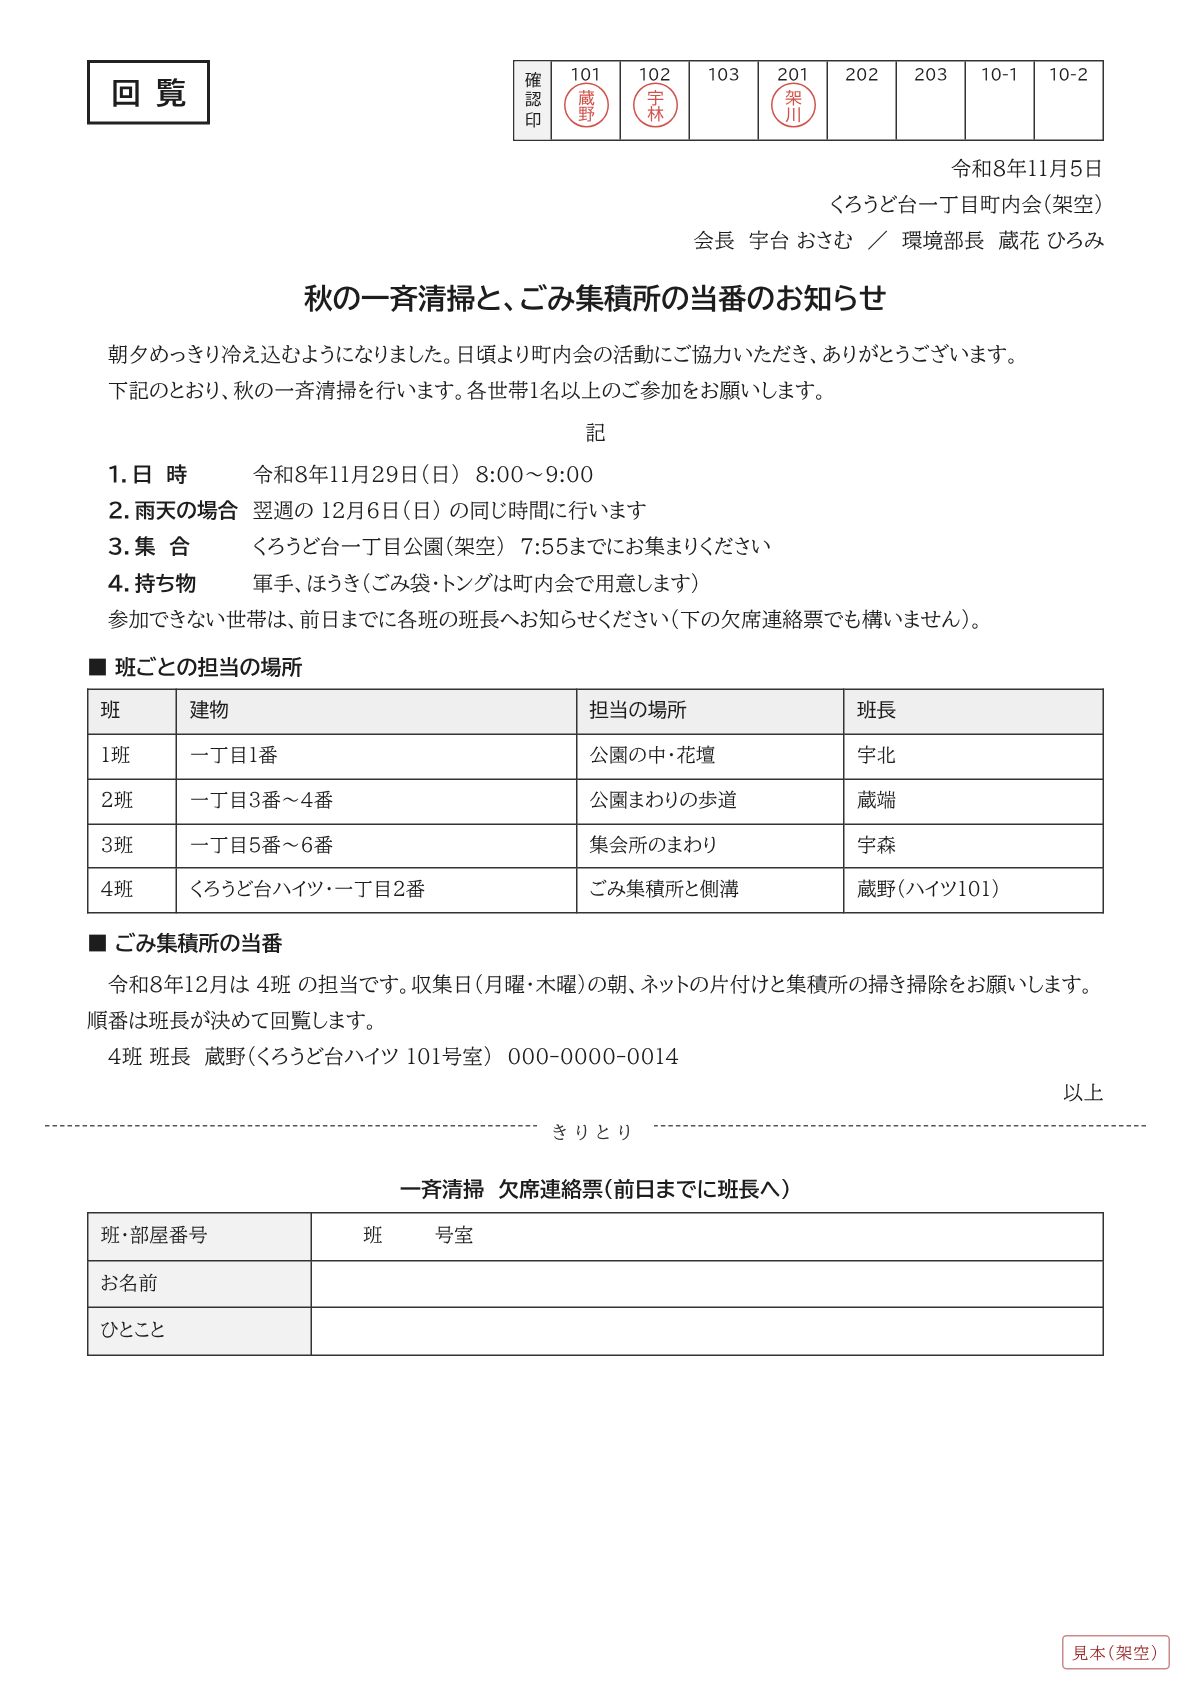
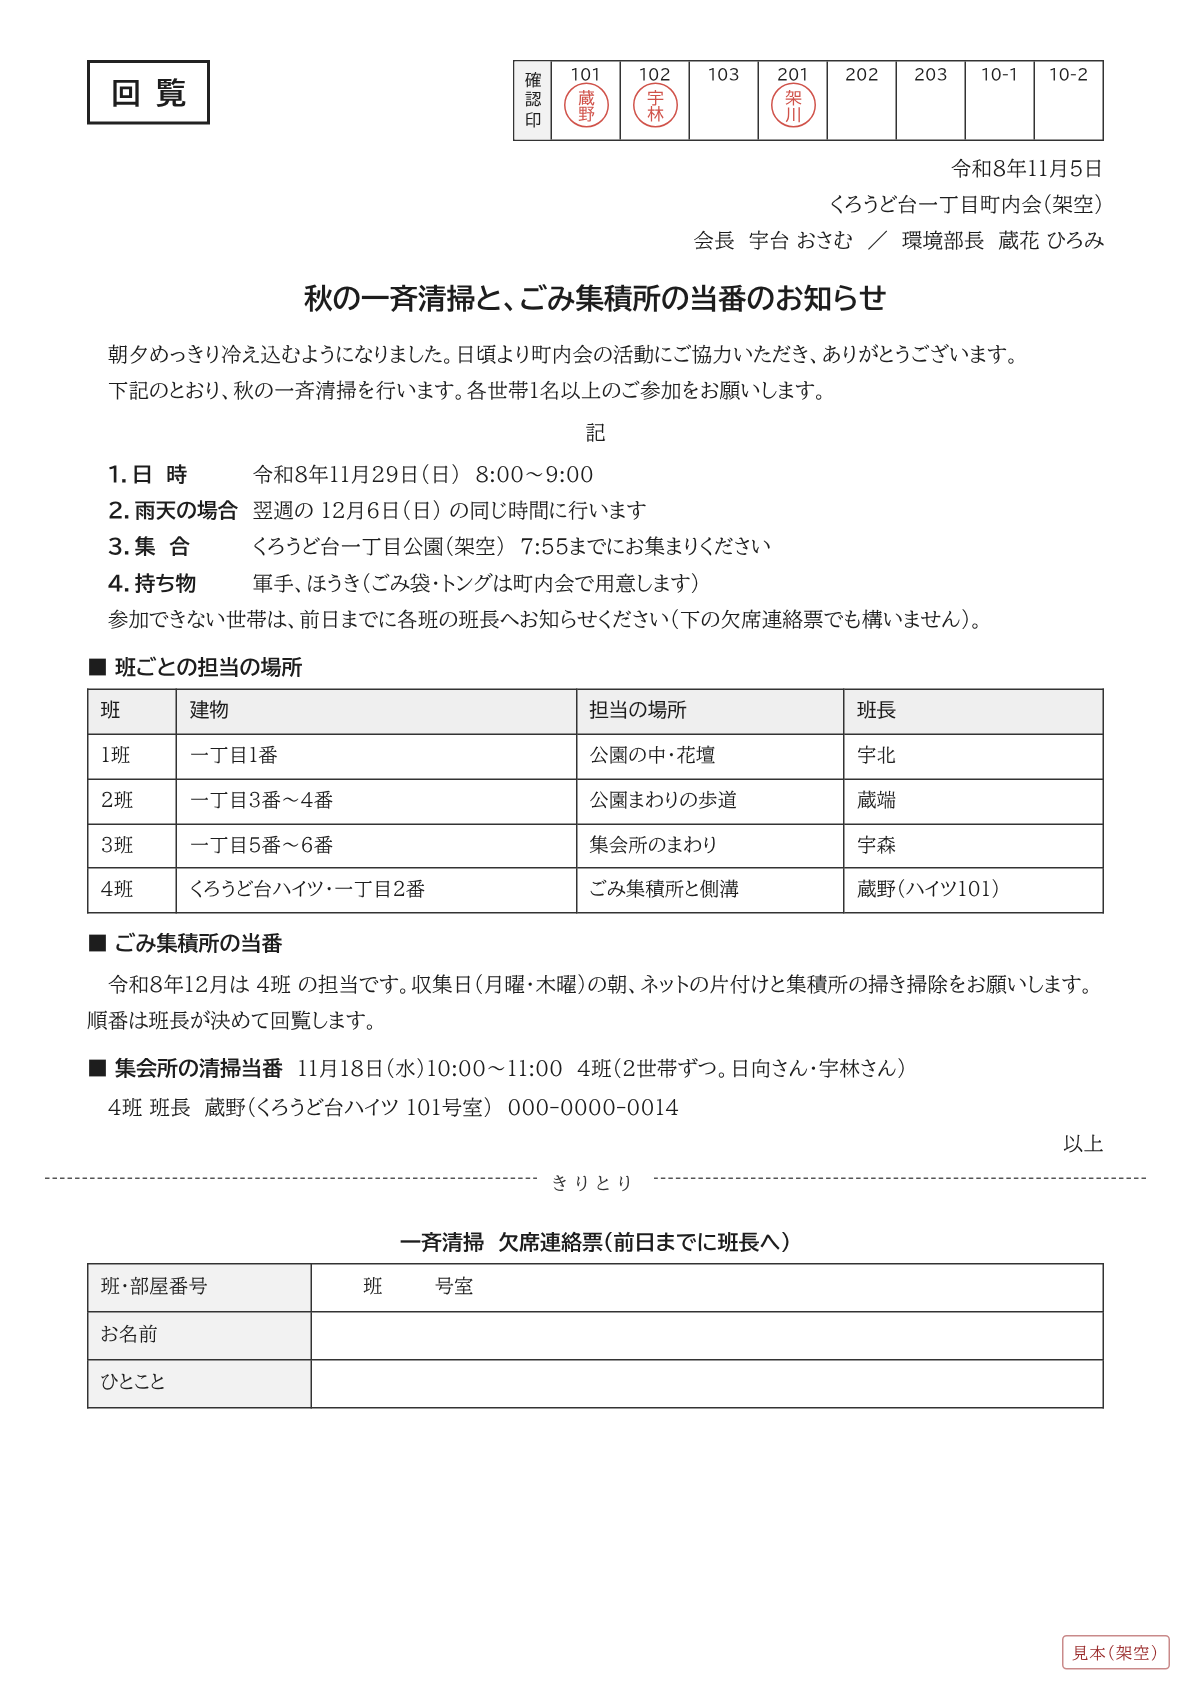
町内会の回覧に平日の当番（集会所の清掃当番 11/18（水）10:00〜11:00）を取り込む・勤務の予定のベトナム語はコードの言い換えに任せる
- 見本の家族で、予定に同じ日の気づきが2件（町内会の当番・授業参観）。トップは授業参観の1枚＋「ほか1件」
- 回覧のベトナム語の仮の訳に当番の項目を足す
- 仮の訳の表が、翔太さんの出勤を早番の日でも「日勤 8:30–17:30」と訳していたのを外し、tellBuild の言い換え（早番・遅番も正しく）に任せる
- smoke: 授業参観のカードを探して確かめ、町内会の当番のカードの文とトップの1枚＋「ほか1件」も確かめる

Claude-Session: https://claude.ai/code/session_01S2LwViGHCPdRZTKJAmPGBM

diff --git a/src/data/demoTranslations.ts b/src/data/demoTranslations.ts
@@ -135,13 +135,14 @@ const PREPARED: Prepared[] = [
     lang: "vi",
     title: "Hội khu phố Kuroudodai 1-chōme — Tổng vệ sinh mùa thu và trực điểm tập kết rác",
     what: "Giấy thông báo luân phiên (kairanban) của hội khu phố: tổng vệ sinh mùa thu, và phiên trực điểm tập kết rác của tổ 4 (tổ 4 là tòa Kuroudodai Heights và 1-chōme số 2).",
-    todo: "Mỗi hộ cử ít nhất 1 người tham gia tổng vệ sinh. Nếu không tham gia được, báo cho tổ trưởng trước 1 ngày (có thể dùng phiếu báo vắng ở cuối giấy).",
+    todo: "Mỗi hộ cử ít nhất 1 người tham gia tổng vệ sinh. Nếu không tham gia được, báo cho tổ trưởng trước 1 ngày (có thể dùng phiếu báo vắng ở cuối giấy). Nhà mình (cùng nhà Ubayashi) có phiên trực dọn nhà sinh hoạt cộng đồng của tổ 4 — ngày giờ xem ở mục bên dưới.",
     items: [
       { match: "一斉清掃", label: "Tổng vệ sinh mùa thu", text: "Tập trung ở công viên Kuroudodai 1-chōme trước 7:55. Mang: găng tay, chổi (túi rác và kẹp gắp do hội chuẩn bị)." },
       { match: "参加できない", label: "Báo nếu không tham gia được (cho tổ trưởng)", text: "Trước 1 ngày. Có thể dùng phiếu báo vắng ở cuối giấy." },
       { match: "ごみ集積所の当番", label: "Trực điểm tập kết rác (tổ 4)", text: "Sáng các ngày thu gom (thứ Hai, thứ Năm): dọn lưới và quét điểm tập kết. Thứ tự trực do tổ trưởng quyết định và sẽ báo sau." },
       { match: "雨天", label: "Nếu trời mưa", text: "Làm vào Chủ nhật tuần sau, cùng giờ." },
       { match: "4班の担当", label: "Chỗ tổ 4 phụ trách (hôm tổng vệ sinh)", text: "Điểm tập kết rác và rãnh thoát nước." },
+      { match: "集会所の清掃当番", label: "Trực dọn vệ sinh nhà sinh hoạt cộng đồng (tổ 4)", text: "Mỗi lần 2 hộ: nhà Hinata (nhà mình) và nhà Ubayashi. Làm ở nhà sinh hoạt cộng đồng (shūkaisho)." },
     ],
     background: [
       {
@@ -201,13 +202,13 @@ export function provisionalTranslation(
 
 /** ほかの書類の予定の名前の、仮の訳（「家族に伝える」の「同じ日の家族の予定」に使う） */
 const LABELS: { lang: LanguageCode; match: string; text: string }[] = [
-  { lang: "vi", match: "出勤日（平日）", text: "đi làm" },
-  { lang: "vi", match: "出勤日", text: "đi làm" },
-  { lang: "vi", match: "出勤（", text: "đi làm (ca ngày 8:30–17:30)" },
+  // 勤務の予定（出勤日（平日）・出勤（日勤 8:30〜17:30）など）は、ここで訳さずコードで言い換える（tellBuild の WORK_WORDS。早番・遅番も正しく出る）
+  { lang: "vi", match: "出勤日（運動会", text: "đi làm (thứ Bảy)" },
   { lang: "vi", match: "授業参観", text: "Dự giờ (phụ huynh đến xem lớp học)" },
   { lang: "vi", match: "運動会", text: "Hội thể thao của trường tiểu học" },
   { lang: "vi", match: "うんどうかい", text: "Hội thể thao của nhà trẻ" },
   { lang: "vi", match: "一斉清掃", text: "Tổng vệ sinh khu phố" },
+  { lang: "vi", match: "集会所の清掃当番", text: "Trực dọn nhà sinh hoạt cộng đồng (tổ 4)" },
   { lang: "vi", match: "親子ふれあいデー", text: "Ngày phụ huynh cùng con ở nhà trẻ" },
 ];
 
